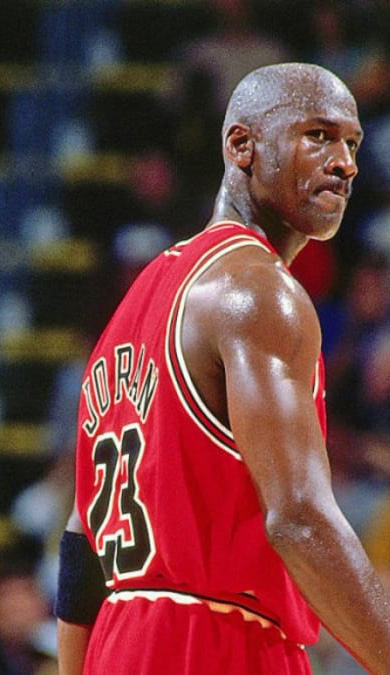
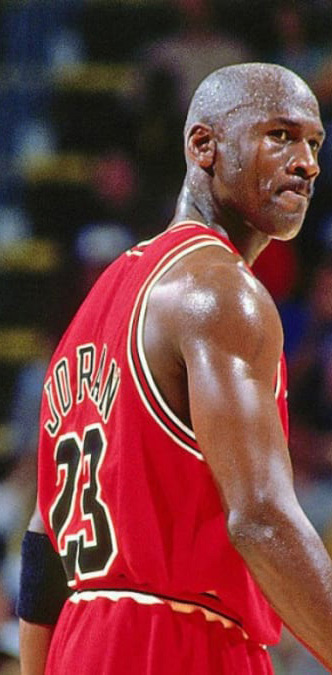
Se terminaron los cambios en estadisticas

diff --git a/css/styles.css b/css/styles.css
@@ -935,16 +935,43 @@ th abbr {
   color: red;
 }
 /* =========== FOTO FINAL ============= */
-#img-center {
-  display: block;
-  margin-left: auto;
-  margin-right: auto;
+@media  (max-width: 1200px) {
+  .foto-final {
+    display: block;
+    margin-left: auto;
+    margin-right: auto;
+  }
+  .texto-imagen {
+    text-align: center;
+    margin: 0;
+    font-family: "Jost", sans-serif;
+    font-size: 2.5rem;
+  }
+  .main-dos {
+    height: 1700px;
+  }
+  .foto-final-2 {
+    display: none;
+  }
 }
-.texto-imagen {
-  text-align: center;
-  margin: 0;
-  font-family: "Jost", sans-serif;
-  font-size: 2.5rem;
+@media (min-width: 1200px) {
+  .main-dos {
+    height: 1700px;
+  }
+  .foto-final {
+  display: none;
+  }
+  .foto-final-2 {
+    display: block;
+    margin-left: auto;
+    margin-right: auto;
+  }
+  .texto-imagen {
+    text-align: center;
+    margin: 0;
+    font-family: "Jost", sans-serif;
+    font-size: 2.5rem;
+  }
 }
 /* ======== FOOTER============ */
 .footer-estadisticas {

diff --git a/pages/estadisticas.html b/pages/estadisticas.html
@@ -274,7 +274,10 @@
             
         </div> 
       <div class="foto-final container-fluid">
-        <img id="img-center" src="../img/jordan-away2.jpg" alt="imagen de jordan final">
+        <img class="foto-final" src="../img/jordan-away2.jpg" alt="imagen de jordan final">
+        </div>
+        <div class="foto-final-2 container-fluid">
+          <img class="foto-final-2" src="../img/jordan-away.jpg" alt="imagen de jordan final mas grande">
         </div>
         <p class="texto-imagen">"Simplemente ... Una leyenda."</p>
       </main>
